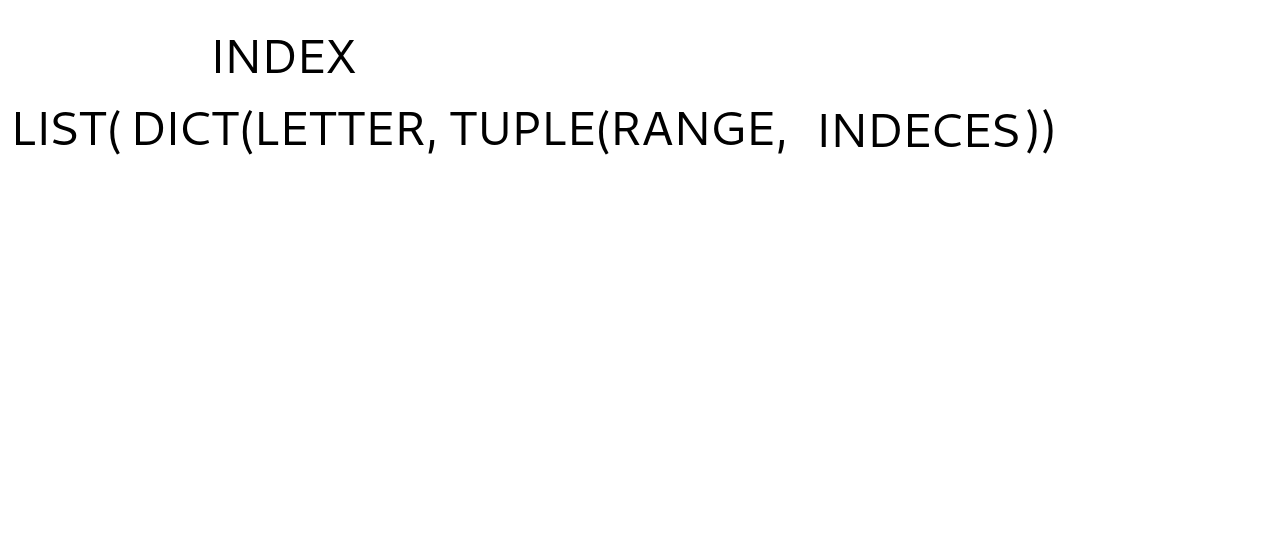
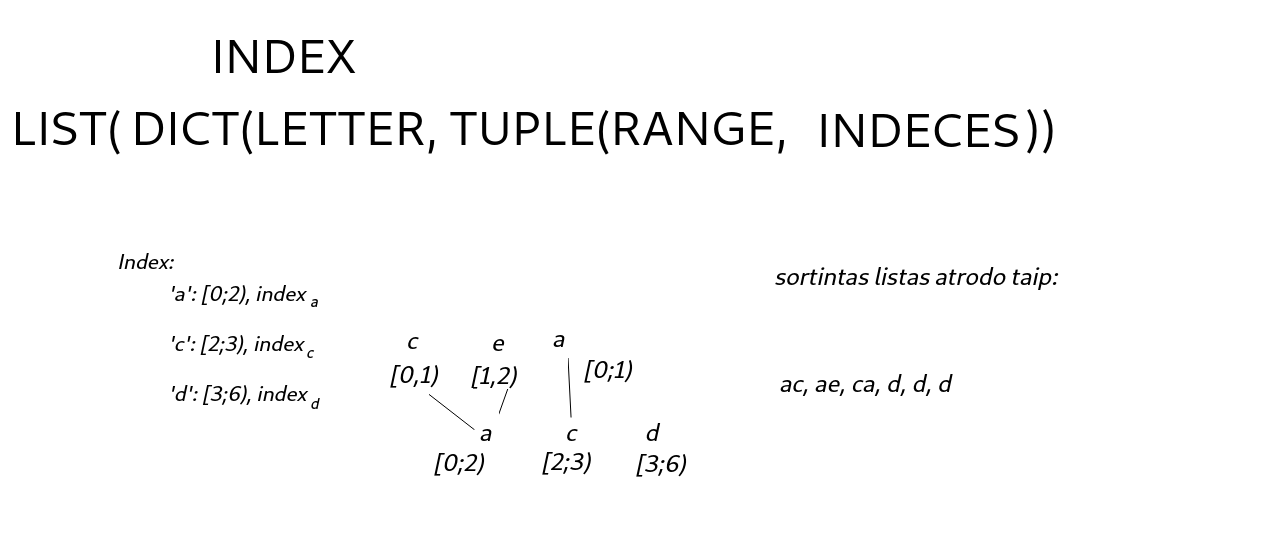
binary search fix. update presentational pic

diff --git a/main.py b/main.py
@@ -4,6 +4,26 @@ import reader
 index_data_list = []
 
 print("Welcome. Select what to do:")
+
+
+def create_index_data(item_list, name, sort_to_orig_map):
+    # jeigu vien skaiciai, panaudoti binary search tsg
+    numeric = check_if_list_is_numeric(item_list)
+    if numeric:
+        search_function = binary_search
+        index_tree = sorted(item_list)
+    else:
+        search_function = index_search
+        index_tree = create_index(item_list)
+
+    return IndexData(
+        index_tree=index_tree,
+        search_function=search_function,
+        index_name=name,
+        orig_list=item_list,
+        sort_to_orig_map=sort_to_orig_map)
+
+
 while True:
     print("1 - make index from property")
     print("2 - search data in index")
@@ -21,22 +41,19 @@ while True:
                 print("Please a name for your index")
                 name = input()
                 print("Creating an index", name, "from property", prop)
-                str_list = sorted(data_dict[prop])
+                item_list = sorted(data_dict[prop])
                 sort_to_orig_map = [
                     i[0] for i in sorted(
                         enumerate(
                             data_dict[prop]),
                         key=lambda x: x[1])]
-                index_data = IndexData(
-                    index_tree=create_index(str_list),
-                    index_name=name,
-                    orig_list=str_list,
-                    sort_to_orig_map=sort_to_orig_map)
+                index_data = create_index_data(item_list, name, sort_to_orig_map)
                 index_data_list.append(index_data)
                 print("Index", index_data.index_name, "was created.")
                 prop_is_set = True
             else:
                 print("No such property found! try again")
+                prop = input()
 
     elif int(choice) == 2:
         print("Select index to search from")
@@ -52,10 +69,13 @@ while True:
 
         print("Enter data to search for")
         data = input()
-        found_at = index_search(data, index_data.index_tree)
-        found_at_to_orig = index_data.sort_to_orig_map[found_at]
-        for prop in data_dict.keys():
-            print(data_dict[prop][found_at_to_orig])
+        found_at = index_data.search_function(data, index_data.index_tree)
+        if found_at == -1:
+            print("Sorry, we didn't find anything")
+        else:
+            found_at_to_orig = index_data.sort_to_orig_map[found_at]
+            for prop in data_dict.keys():
+                print(data_dict[prop][found_at_to_orig])
     elif int(choice) == 3:
         print("bye")
         break

diff --git a/index.py b/index.py
@@ -23,11 +23,12 @@ class IndexTree:
 
 
 class IndexData:
-    def __init__(self, index_tree, index_name, orig_list, sort_to_orig_map):
+    def __init__(self, index_tree, search_function, index_name, orig_list, sort_to_orig_map):
         self.index_tree = index_tree
         self.index_name = index_name
         self.orig_list = orig_list
         self.sort_to_orig_map = sort_to_orig_map
+        self.search_function = search_function
 
 
 def get_first_letter(word):
@@ -83,15 +84,16 @@ def create_index(str_list):
         return index
 
 
-def binary_search(intList, item):  # assume sorted
+def binary_search(item, intList):  # assume sorted
     start = 0
     end = len(intList) - 1
+    item = int(item)
 
     while start <= end:
         mid_point = (end + start) // 2
-        if intList[mid_point] == item:
+        if int(intList[mid_point]) == item:
             return mid_point
-        elif intList[mid_point] < item:
+        elif int(intList[mid_point]) < item:
             start = mid_point + 1
         else:
             end = mid_point - 1
@@ -113,3 +115,6 @@ def index_search(item, index):  # esme atrasti kur elementas yra susortintame li
         index_to_search = index_to_search.get_key_index(char)
 
     return where_in_sorted_list
+
+def check_if_list_is_numeric(list):
+    return all(item.isdigit() for item in list)

diff --git a/README.md b/README.md
@@ -8,3 +8,8 @@ The purpose of this project is to learn python
 Requirements
 
 1) Python 3 
+2) Include data.csv file in same folder as .py files
+
+How to run:
+
+
